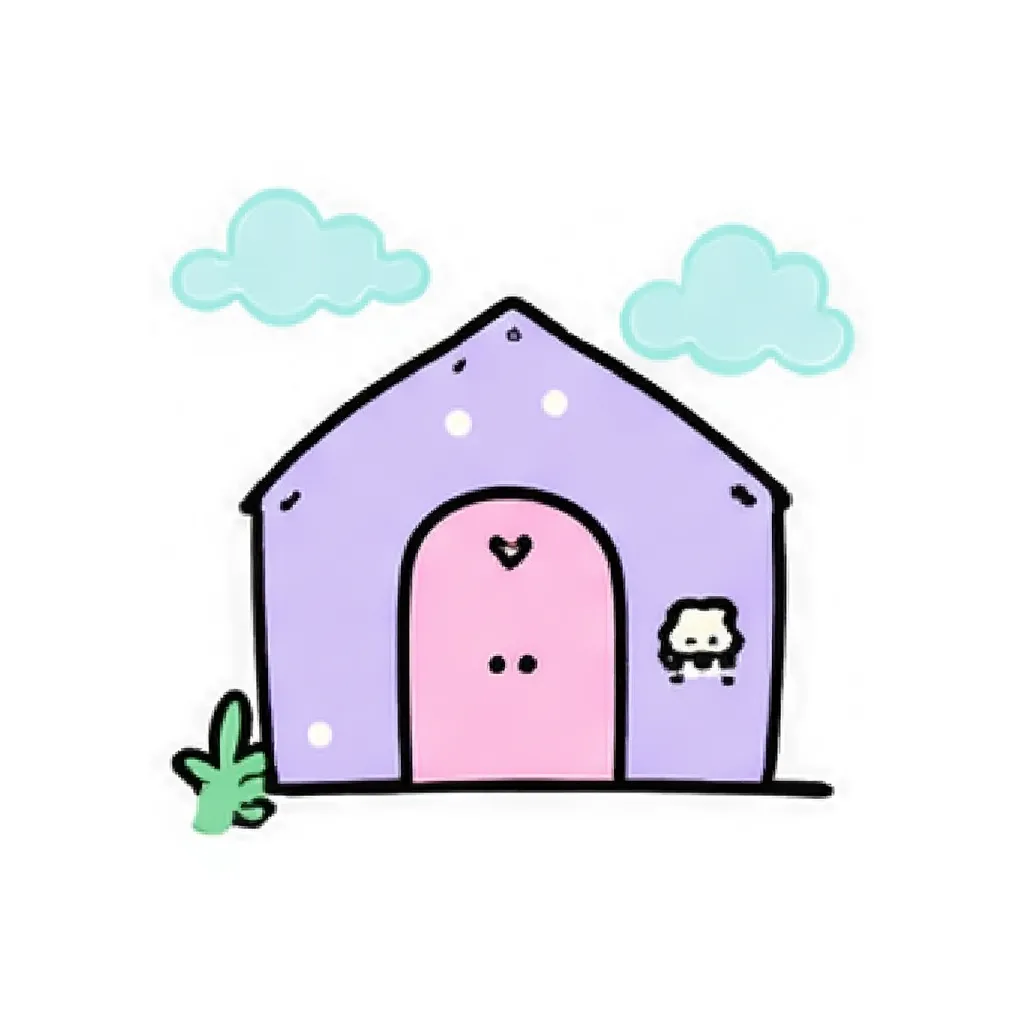
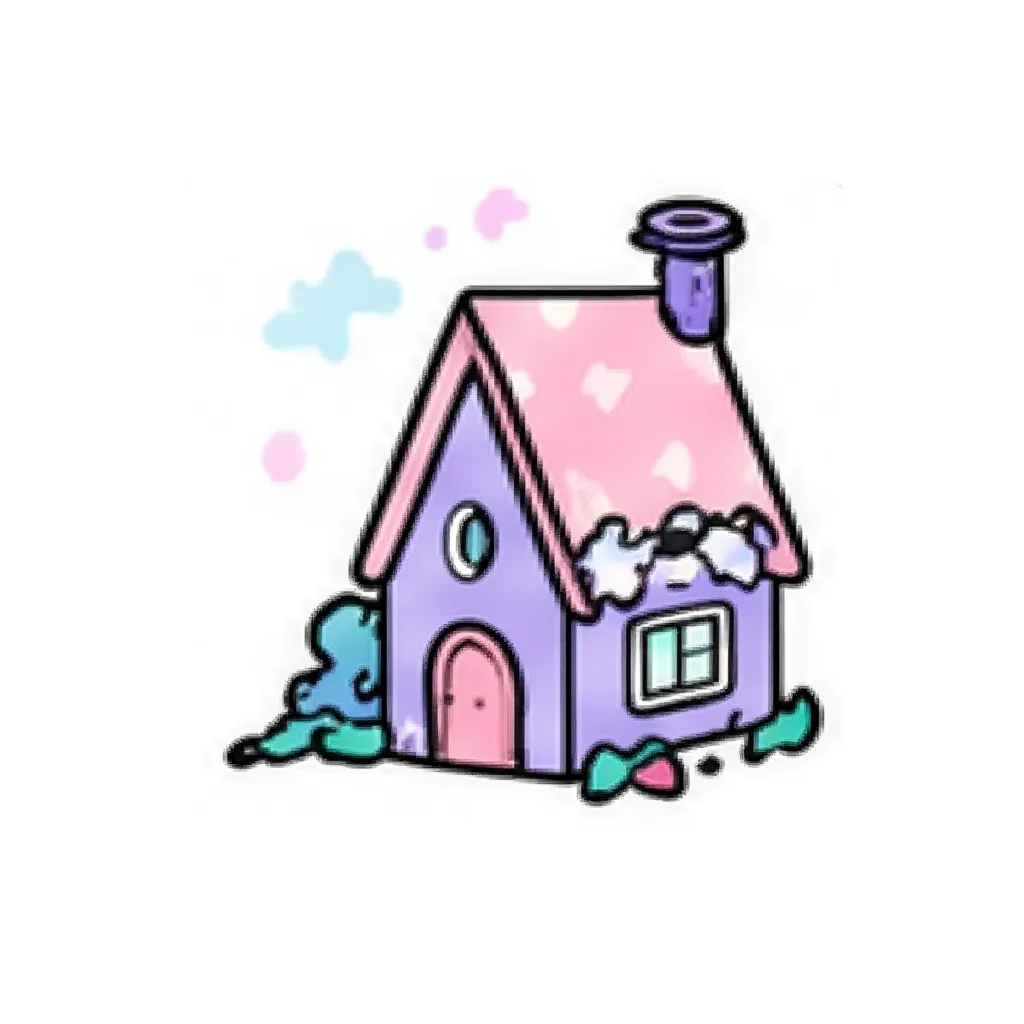
Laureate: default lora_scale 1.2 for crisp linework
The Laureate LoRA under-applies at the default lora_scale of 1.0 — outputs
come out soft, without the bold black outlines that define the style. A
controlled one-variable sweep showed lora_scale is the driver (guidance and
steps barely move sharpness); 1.2 restores crisp linework without overcooking.
Adds a per-model defaultLoraScale and regenerates the preview tile at 1.2.

Claude-Session: https://claude.ai/code/session_0151VvQRLZ4jhrgSadHjTe2v

Changed region(s): [[0.1562, 0.1562, 0.8438, 0.8125], [0.4688, 0.1875, 0.5312, 0.25]]

diff --git a/server.js b/server.js
@@ -328,6 +328,8 @@ app.get('/import', serveGated('ingest.html'));
 // which is how new LoRAs (e.g. HOONIE) can be added without pinning a hash.
 //   promptSuffix — appended to every prompt for this model (style anchor).
 //   defaultSteps — num_inference_steps to use when the client doesn't override.
+//   defaultLoraScale — lora_scale to use when the client doesn't override; a
+//     soft LoRA (e.g. Laureate) needs >1 to bring its bold linework through.
 const MODELS = {
   replicate: [
[1 lines of base64/hex data omitted]
@@ -337,7 +339,7 @@ const MODELS = {
[2 lines of base64/hex data omitted]
     { id: 'sageryza/hoonie', version: null, name: 'Hoonie Linocut', trigger: 'HOONIE', promptSuffix: 'linocut relief print, white background', defaultSteps: 40 },
[2 lines of base64/hex data omitted]
   ],
   // OpenAI image generation. The DALL·E 3 style presets were retired — a single
   // clean entry remains so OpenAI is still selectable alongside the LoRAs.
@@ -598,7 +600,7 @@ app.post('/api/generate/replicate', async (req, res) => {
     if (known?.promptSuffix) fullPrompt = `${fullPrompt}, ${known.promptSuffix}`;
     const version = known ? `${known.id}:${await resolveReplicateVersion(known)}` : model;
 
-    const loraScale = settings.lora_scale ?? 1;
+    const loraScale = settings.lora_scale ?? known?.defaultLoraScale ?? 1;
     const megapixels = settings.megapixels ?? '1';
     const numOutputs = settings.num_outputs ?? 1;
     const outputFormat = settings.output_format ?? 'webp';
